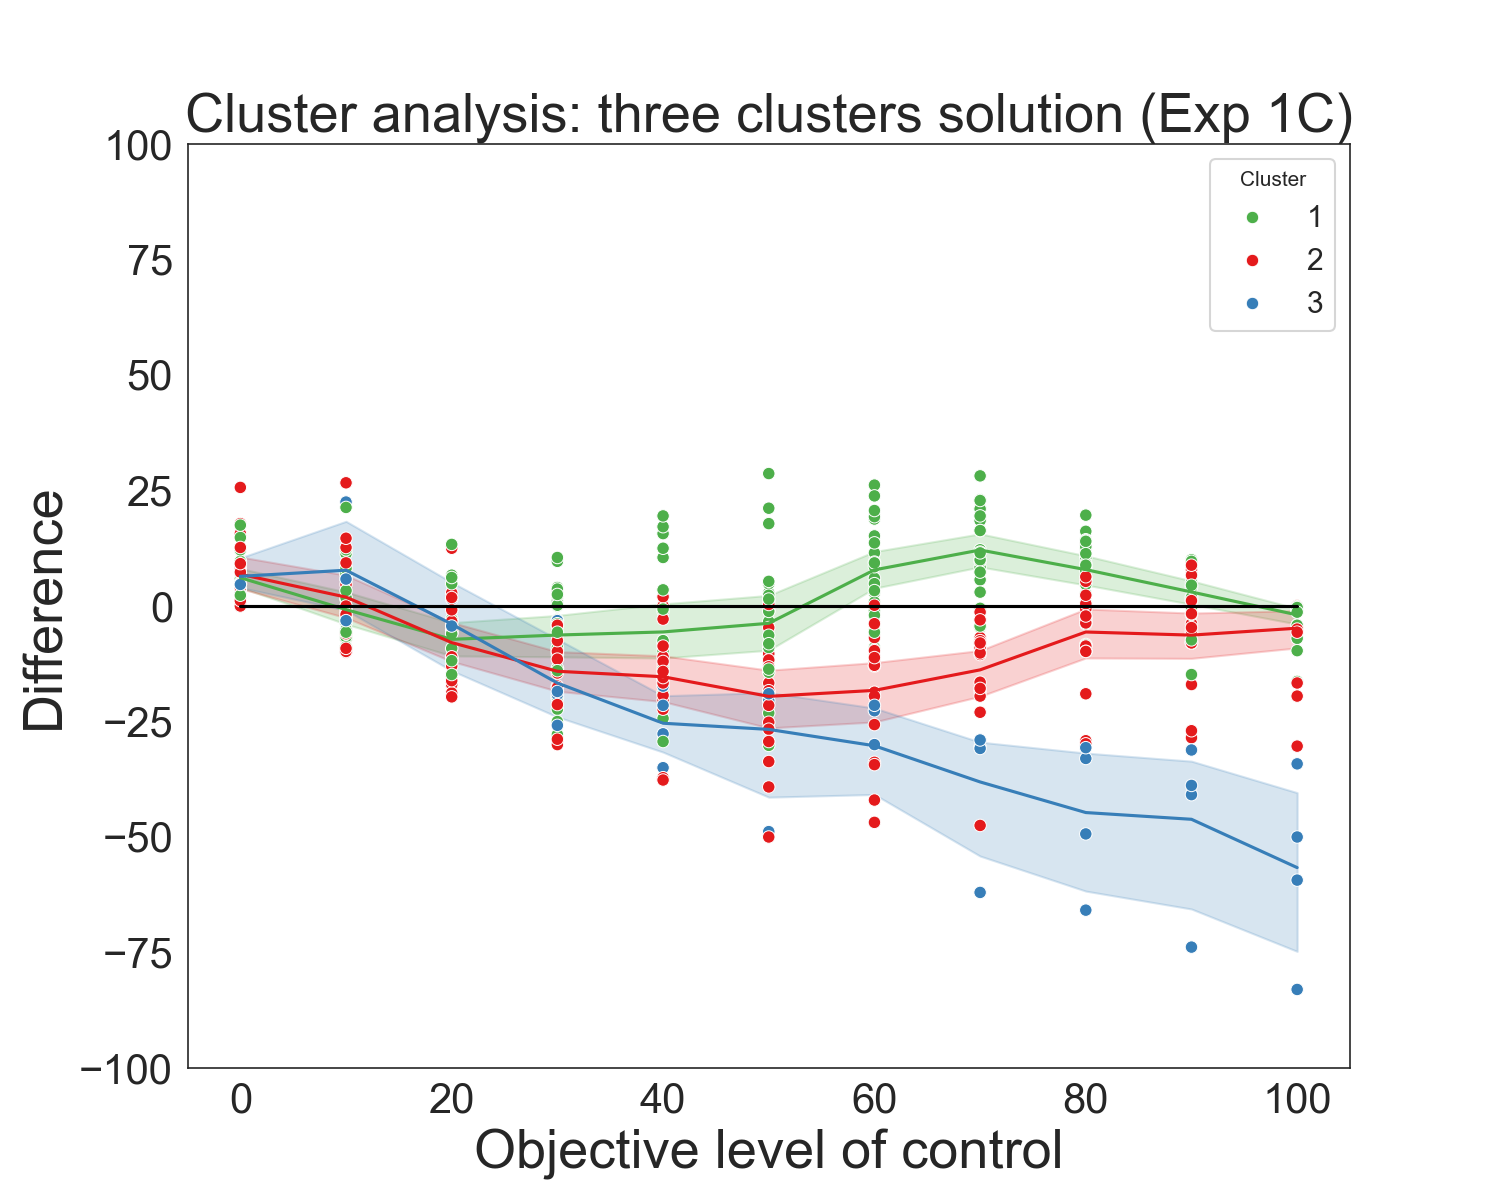
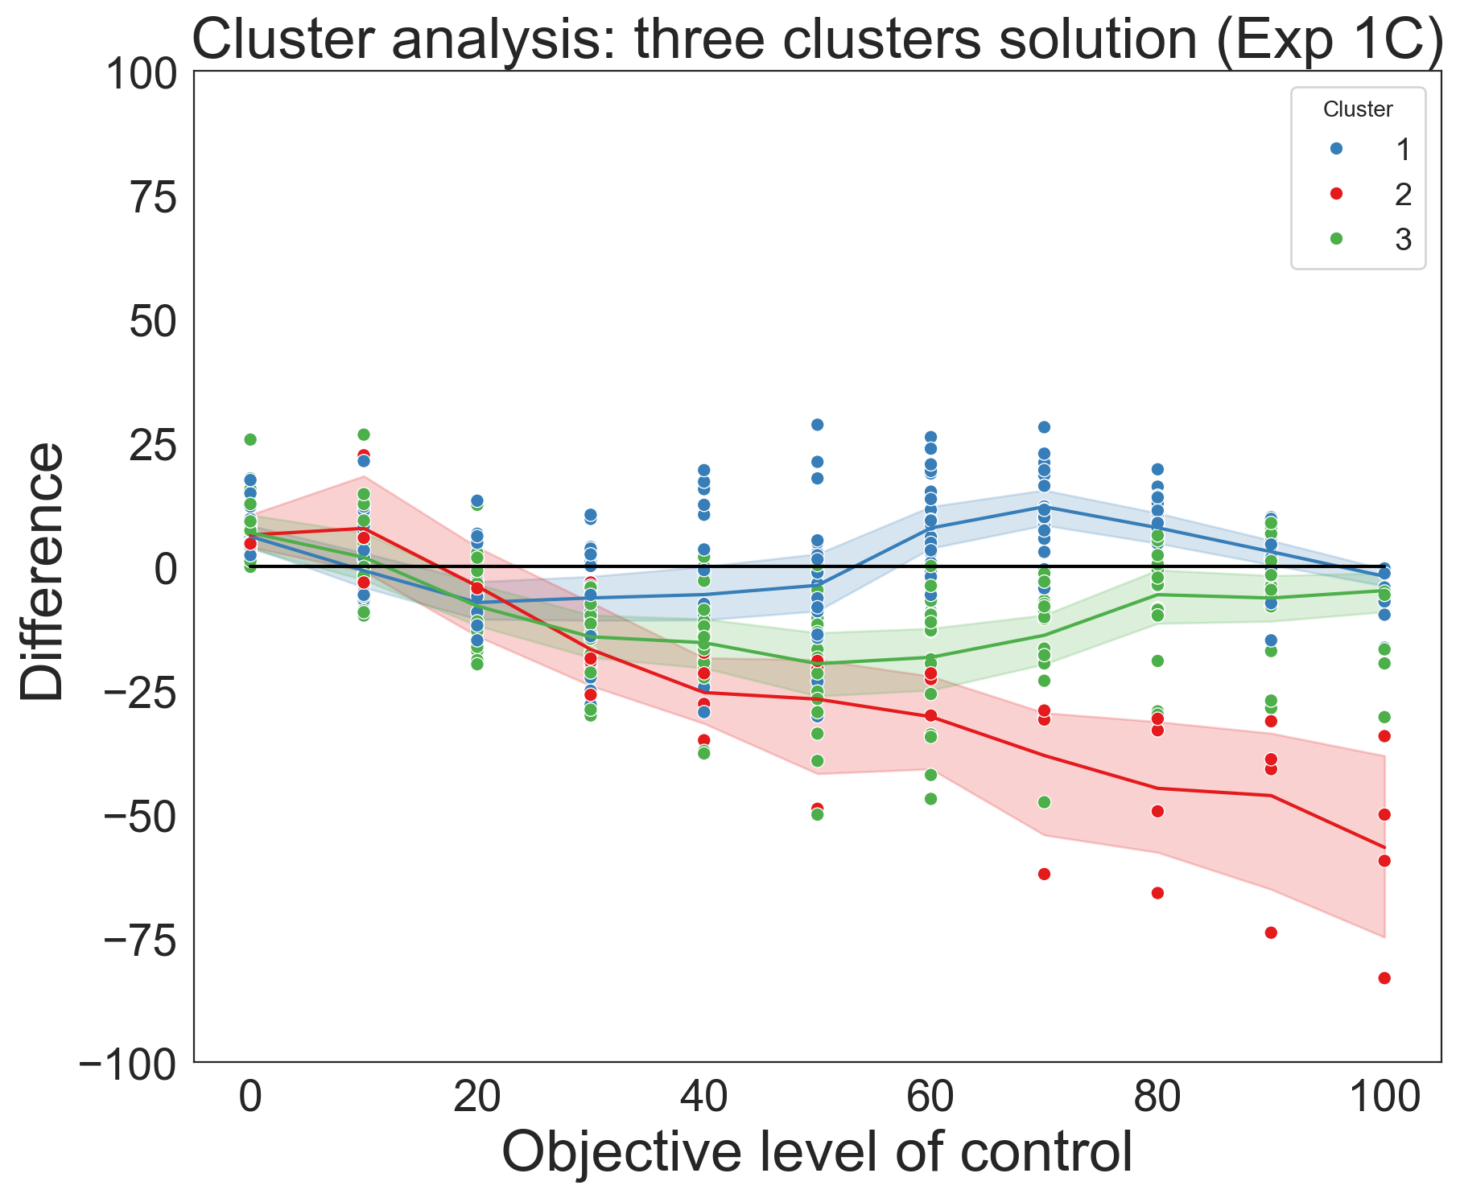
Update VDA and cluster analysis

diff --git a/Dashboard_MeasuringSenseOfControl.py b/Dashboard_MeasuringSenseOfControl.py
@@ -2,7 +2,7 @@
 """
 Created on Wed Nov 11 12:30:00 2024
 
-STREAMLIT DASHBOARD for CultEvoSelf project
+STREAMLIT DASHBOARD for MeasuringSenseOfControl project
 
 To run locally type this in Anaconda Prompt:
     streamlit run Dashboard_MeasuringSenseOfControl.py
@@ -843,6 +843,11 @@ if button_radio == 'Preregistered analyses':
     X = df_temp[["control_level"]].to_numpy()
     y = df_temp["response"].to_numpy()
     
+    if selected_exp_num == "1C":
+        df_temp = df.loc[:,["SubNum", "control_level", "scale", "response"]].groupby(["SubNum", "control_level", "scale"]).median().reset_index()
+        X = df_temp[["control_level", "scale"]].to_numpy()
+        y = df_temp["response"].to_numpy()
+    
     
     # Add a constant (for the intercept term)
     X = sm.add_constant(X)
@@ -913,6 +918,11 @@ if button_radio == 'Preregistered analyses':
     model = mixedlm("response ~ control_level", df, groups="SubNum")
     result = model.fit() 
     
+    if selected_exp_num == "1C":
+        df_temp = df.loc[:,["SubNum", "control_level", "scale", "response"]] #.groupby(["control_level"]).median().reset_index()
+        # Fit the linear mixed model
+        model = mixedlm("response ~ control_level + scale", df, groups="SubNum")
+        result = model.fit() 
     
     # Extract variance components    
     #variance_components = result.cov_re.diagonal()  # Random effect variances
@@ -950,14 +960,18 @@ if button_radio == 'Preregistered analyses':
     # PINGOUIN
     # Perform repeated measures ANOVA
     anova_results = rm_anova(data=df_temp, dv='difference', within='control_level', subject='SubNum')
+    
+    
+    if selected_exp_num == "1C":
+        df_temp = df.loc[:,["SubNum", "control_level", "scale", "difference"]].groupby(["SubNum","control_level", "scale"]).median().reset_index()
+        anova_results = rm_anova(data=df_temp, dv='difference', within=['control_level', 'scale'], subject='SubNum')
+        
     st.markdown("PINGUOIN RESULTS:")
     st.table(anova_results)
+        
     
     
-    
-    
-    
-    
+
     
         
     ### ANALYSIS 2b
@@ -970,6 +984,14 @@ if button_radio == 'Preregistered analyses':
     # Fit the linear mixed model
     model = mixedlm("difference ~ control_level", df, groups="SubNum")
     result = model.fit() 
+    
+    if selected_exp_num == "1C":
+        # Prepare data
+        df_temp = df.loc[:,["SubNum", "control_level", "scale", "difference"]] #.groupby(["control_level"]).median().reset_index()
+        # Fit the linear mixed model
+        model = mixedlm("difference ~ control_level + scale", df, groups="SubNum")
+        result = model.fit() 
+    
     # Print the results
     st.text(result.summary())
 
@@ -985,15 +1007,15 @@ if button_radio == 'Variance decomposition analysis':
     st.markdown('''This section presents the results of Variance Decomposition Analysis 
                 (see: [1](https://doi.org/10.1016/j.indmarman.2022.10.020), 
                 [2](https://www.statsmodels.org/dev/examples/notebooks/generated/variance_components.html)). 
-                As the name implies, it allows to 
-                decompose the variance of participants' responses into different sources: variance reflected by different 
-                expermental conditions (viariability reflecting different levels of control), variance reflecting differences 
-                between different participants  (between-subject variability) and the unexplained variance (error variability). 
-                Importantly, here we separate two types of variability reflecting the experimental conditions: variability reflecting 
-                the objective level of control (objective LoC), and variability reflecting the group-level bias when evaluating different levels of 
-                control (bias in LoC).
+                VDA allows to decompose the total variability present in the data into separate components. 
+                For example, it can allow to determine what percentage of the variance 
+                can be attributed to the effect of an experimental manipulation, to variability across individual participants, 
+                and how much remains unexplained. Here, we used VDA to determine what percentage of the variance of participants’ 
+                responses (hereafter, response variance) was explained by the objective level of control 
+                participants had on each trial (LoC-Objective), the group-level response biases at each level of control (LoC-Bias), 
+                the between-subject variance, and the residual unexplained variance. 
                 ''')
-    st.markdown('''In the first step we calculate the total variability of participants' responses in the task:
+    st.markdown('''First, we calculate the total variability of participants' responses in the task:
                 ''')
     
     
@@ -1017,19 +1039,19 @@ if button_radio == 'Variance decomposition analysis':
     st.text(f"Total variance of responses: {total_variance_response:.3f}")
     
     st.markdown("""This value represents the total amount of variance in the data that has to be explained. 
-                One source of this variance is the fact that in different trials participants control the red ball over which 
-                they have objectively different level of control: 0%, 10%, up to 100%. Hence, one source of variability of responses 
-                reporting participants' sense of control comes from the fact that they had objctively different levels of control. 
-                This variability can be removed if we look at the variability not of participants' responses, but the variability of 
-                the differences between their responses and the objective level of control. In other words: at the variability of their 
-                deviations.
+                In the first step of the VDA, we calculated LoC-Objective to capture the extent to which participants’ responses stick 
+                to the “ground truth” of the objective LoC, i.e., conform to the idealized linear relationship between SoC and LoC. 
+                Put another way, LoC-Objective captures the portion of the response variance explained 
+                by objective LoC treated as a continuous linear predictor. One method to compute LoC-Objective is to calculate the 
+                response variance and then subtract the deviation variance, i.e., the variance of the deviations of participants’ 
+                reported SoC from the corresponding objective LoC.
                  """)
     
     st.markdown("#### **TOTAL VARIANCE OF DIFFERENCES/DEVIATIONS**")
     st.text(f"Total variance of the deviations: {total_variance_difference:.3f}")
     
     st.markdown("""The variance of deviations is much lower than the variance of responses. This is because we removed 
-                the variance caused by the linear effect of the objective level of control. This variance accounted for the following 
+                the variance caused by the linear effect of the objective level of control, which accounted for the following 
                 percentage of total variance of participants' responses:
                  """)
     
@@ -1060,47 +1082,54 @@ if button_radio == 'Variance decomposition analysis':
     #     st.scatter_chart(data=df, x="control_level", y="difference", size=10)
     # st.markdown("""***Figure 2.*** *Scatter plots of participants' responses (left) and deviations of responses from objective 
     #             level of control (right).*
-    #              """)
+    #               """)
            
     
-    st.markdown("""The remaining variance is the variance that can be attributed to participants' biases in responses to 
-                different levels of the experimental conditions (level of control), their indivividual differences 
-                (between-subject variability) and the unexplained variance. These values can be estimated using the 
-                Linear Mixed Models approach. 
+    st.markdown("""
+                
+                In the second step of the VDA, we further decomposed the deviation variance into the portions explained by LoC-Bias, 
+                the between-subject variance, and the residual unexplained variance. We calculated LoC-Bias to capture the extent to 
+                which participants’ responses reflect group-level deviations of SoC from the ground truth. Put another way, we 
+                calculated LoC-Bias to capture how much variance is explained by the average group-level response, i.e., by 
+                knowing that on average, participants tend to underestimate SoC at lower levels of LoC. LoC-Bias is computed 
+                by calculating the portion of the deviation variance explained by objective LoC treated as a categorical predictor. 
+                Importantly, this allows to estimate nonlinear influences of LoC on SoC. Thus, we calculated LoC-Bias by performing 
+                a linear mixed model analysis with the deviations of participants’ responses as the dependent variable, LoC as 
+                a categorical fixed effect, and participant as a random effect. 
                  """)
     
-    st.markdown("""In the first step we evaluate a null model in which we do not model the effect of the experimental conditions. 
-                We perform this model on the deviations (between the reports and the objctive level of control).
-                """)
+    # st.markdown("""In the first step we evaluate a null model in which we do not model the effect of the experimental conditions. 
+    #             We perform this model on the deviations (between the reports and the objctive level of control).
+    #             """)
     
-    # ------------------
-    st.markdown(" ### MODEL 0: Null model with random effect of participants")
-    # Prepare data
-    df_temp = df.loc[:,["SubNum", "difference", "response"]]
-    # Specifying the model
-    vc = {"Participant": "1 + C(SubNum)"}
-    model0 = sm.MixedLM.from_formula("difference ~ 1", groups="SubNum", vc_formula=vc, data=df_temp)
-    result0 = model0.fit()
-    # Print the results
-    st.text(result0.summary())
+    # # ------------------
+    # st.markdown(" ### MODEL 0: Null model with random effect of participants")
+    # # Prepare data
+    # df_temp = df.loc[:,["SubNum", "difference", "response"]]
+    # # Specifying the model
+    # vc = {"Participant": "1 + C(SubNum)"}
+    # model0 = sm.MixedLM.from_formula("difference ~ 1", groups="SubNum", vc_formula=vc, data=df_temp)
+    # result0 = model0.fit()
+    # # Print the results
+    # st.text(result0.summary())
     
-    # Comparison with total variance of deviations
-    st.markdown(f"""The LMM model estimated the variance that can be explained by differences between participants (the last 
-                row, "Participant Var": {result0.vcomp[0]:.2f}"), as well as the unexplained variance (here presented under 
-                the name of "scale": {result0.scale:.2f})
-                """)
-    var_in_model0 = result0.scale + result0.vcomp[0]
-    st.text(f"Total variance in Model 0: {var_in_model0:.2f}")
-    st.text(f"Total variance of deviations: {total_variance_difference:.2f}")
+    # # Comparison with total variance of deviations
+    # st.markdown(f"""The LMM model estimated the variance that can be explained by differences between participants (the last 
+    #             row, "Participant Var": {result0.vcomp[0]:.2f}"), as well as the unexplained variance (here presented under 
+    #             the name of "scale": {result0.scale:.2f})
+    #             """)
+    # var_in_model0 = result0.scale + result0.vcomp[0]
+    # st.text(f"Total variance in Model 0: {var_in_model0:.2f}")
+    # st.text(f"Total variance of deviations: {total_variance_difference:.2f}")
     
-    st.markdown("""These values should be very similar, although they do not need to be exactly identical. A small difference 
-                might be due to numerical approximations used when performing calculations during estimation of the LMM model.
-                """)
+    # st.markdown("""These values should be very similar, although they do not need to be exactly identical. A small difference 
+    #             might be due to numerical approximations used when performing calculations during estimation of the LMM model.
+    #             """)
     
     st.markdown(" ### MODEL 1: Model with fixed effect of level of control and random effect of participants")
-    st.markdown("""The null model doesn't take into consideration the effect of experimental condition. Therefore as the final 
-                step we stimated a model that includes level of control as a fixed effect and participants as a random effect:
-                """)
+    # st.markdown("""The null model doesn't take into consideration the effect of experimental condition. Therefore as the final 
+    #             step we stimated a model that includes level of control as a fixed effect and participants as a random effect:
+    #             """)
     
     # Prepare data
     df_temp = df.loc[:,["SubNum", "control_level", "difference", "response"]]
@@ -1111,30 +1140,35 @@ if button_radio == 'Variance decomposition analysis':
     # Print the results
     st.text(result1.summary())
     
-    st.markdown("""As can be seen below the sum of within-participants variance and the unexplained variance is lower than 
-                in Model 0 - that's because we added the fixed factor of level of control, which explained part of the 
-                variance from the null model:
+    st.markdown("""The important values from the LMM are 'Participant Var', which reflects between-subject variability, and 
+                'Scale' which reflects the unexplained variance.:
                 """)
     
     var_in_model1 = result1.scale + result1.vcomp[0]
-    var_dev_loc_bias = var_in_model0-var_in_model1
-    var_dev_loc_bias_perc = 100*(var_in_model0-var_in_model1)/var_in_model0
+    #var_dev_loc_bias = var_in_model0-var_in_model1
+    var_dev_loc_bias = total_variance_difference-var_in_model1
+    var_dev_loc_bias_perc = 100*(total_variance_difference-var_in_model1)/total_variance_difference
     
-    st.text(f"Total variance in Model 1: {var_in_model1:.2f}")
-    st.text(f"Total variance in Model 0: {var_in_model0:.2f}")
+    st.text(f"Between-subject variance in Model 1: {result1.vcomp[0]:.2f}")
+    st.text(f"Unexplained variance in Model 1: {result1.scale:.2f}")
+    
+    st.markdown("""Now we can calculate the variance explained the LoC-Bias by subtracting the two above 
+                (unexplained variance and group-level variance) from total variance of deviations:
+                 """)
+    st.text(f"Variance explained by LoC-Bias: {var_dev_loc_bias:.2f}")
+    #st.text(f"Total variance in Model 0: {total_variance_difference:.2f}")
     # st.text(f"Variance of deviations explained by level of control: {var_dev_loc_bias:.2f} ({var_dev_loc_bias_perc:.2f}%)")
     # st.text(f"Variance of deviations explained by the within-subject variability: {result1.vcomp[0]:.2f} ({100*result1.vcomp[0]/var_in_model0:.2f}%)")
     # st.text(f"Unexplained variance of deviations: {result1.scale:.2f} ({100*result1.scale/var_in_model0:.2f}%)")
     
     st.markdown("#### **VARIANCE DECOMPOSITION OF DEVIATIONS**")
-    st.markdown("""By subtracting the total varience in Model 1 from total variance in Model 0 we obtained the amount 
-                of variance explained by the experimental condition, and we can provide a full decomposition for deviations 
+    st.markdown("""These steps allow us to provide a full decomposition for deviations 
                 from the objective level of control:
                 """)
                 
     vda_difference = pd.DataFrame(data=[
-        ["Level of Control: bias", var_dev_loc_bias, 100*var_dev_loc_bias/total_variance_difference],
-        ["Within-subject", result1.vcomp[0], 100*result1.vcomp[0]/total_variance_difference],
+        ["LoC-Bias", var_dev_loc_bias, 100*var_dev_loc_bias/total_variance_difference],
+        ["Between-subject", result1.vcomp[0], 100*result1.vcomp[0]/total_variance_difference],
         ["Unexplained", result1.scale, 100*result1.scale/total_variance_difference],
         ["TOTAL VARIANCE", total_variance_difference, 100]],
         columns=["Variance explained by:", "Variance", "Percentage"])
@@ -1150,9 +1184,9 @@ if button_radio == 'Variance decomposition analysis':
     # st.text(f"Unexplained variance of responses: {result1.scale:.2f} ({100*result1.scale/total_variance_response:.2f}%)")
     
     vda_response = pd.DataFrame(data=[
-        ["Level of Control: linear", total_variance_response-total_variance_difference, 100-100*total_variance_difference/total_variance_response],
-        ["Level of Control: bias", var_dev_loc_bias, 100*var_dev_loc_bias/total_variance_response],
-        ["Within-subject", result1.vcomp[0], 100*result1.vcomp[0]/total_variance_response],
+        ["LoC-Objective", total_variance_response-total_variance_difference, 100-100*total_variance_difference/total_variance_response],
+        ["LoC-Bias", var_dev_loc_bias, 100*var_dev_loc_bias/total_variance_response],
+        ["Between-subject", result1.vcomp[0], 100*result1.vcomp[0]/total_variance_response],
         ["Unexplained", result1.scale, 100*result1.scale/total_variance_response],
         ["TOTAL VARIANCE", total_variance_response, 100]],
         columns=["Variance explained by:", "Variance", "Percentage"])
@@ -1611,8 +1645,8 @@ if button_radio == 'Cluster analysis':
     # df_kmeans = x.copy().reset_index()
     
     
-    # ##########################
-    # # PERFORM CLUSTER ANALYSIS FOR THREE CLUSTERS
+    ##########################
+    # PERFORM CLUSTER ANALYSIS FOR THREE CLUSTERS
     
     st.markdown("### Perform cluster analysis for 3 clusters")
     
@@ -1641,7 +1675,8 @@ if button_radio == 'Cluster analysis':
 
     # # Custom palette
     # cust_pal = sns.color_palette('Set1')
-    # pal_exp3clust = [  cust_pal[2], cust_pal[0], cust_pal[1] ] #, cust_pal[3], ]
+    # pal_exp3clust = [  cust_pal[1], cust_pal[0], cust_pal[2] ] #, cust_pal[3],                 ]
+    # pal_exp3clust = [  cust_pal[0], cust_pal[1], cust_pal[2] ] #, cust_pal[3] ,  ]
 
     # # Plot data
     # sns.lineplot(data=df_k_long, x='Control', y='Difference', hue='Cluster', palette=pal_exp3clust, legend=None)
@@ -1702,6 +1737,8 @@ if button_radio == 'Cluster analysis':
     # ##########################
     # # PERFORM CLUSTER ANALYSIS FOR THE HIGHEST SILHOUETTE SCORE
 
+    st.markdown("### Plot solution for 2 clusters")
+    
     # # Perform the target cluster analysis   
     # k = int(max_silhouette_first4)
     # kmeans = KMeans(init = "k-means++", n_clusters=k, n_init = 20)
@@ -1742,7 +1779,7 @@ if button_radio == 'Cluster analysis':
     # st.pyplot(fig3)
     fig_filename = f'figures_all_cluster_analyses/cluster_maxsilh_clusters_{selected_selectbox}_Exclude_{selectbox_exclude_outliers}.png'
     st.image(image=fig_filename)
-    st.markdown(f"***Figure 3.*** *Results of the cluster analysis for the number of clusters with the highest Siluoette score. Data from Experiment {selected_exp_num}*. ")
+    st.markdown(f"***Figure 3.*** *Results of the cluster analysis for 2 clusters. Data from Experiment {selected_exp_num}*. ")
     
 
 
